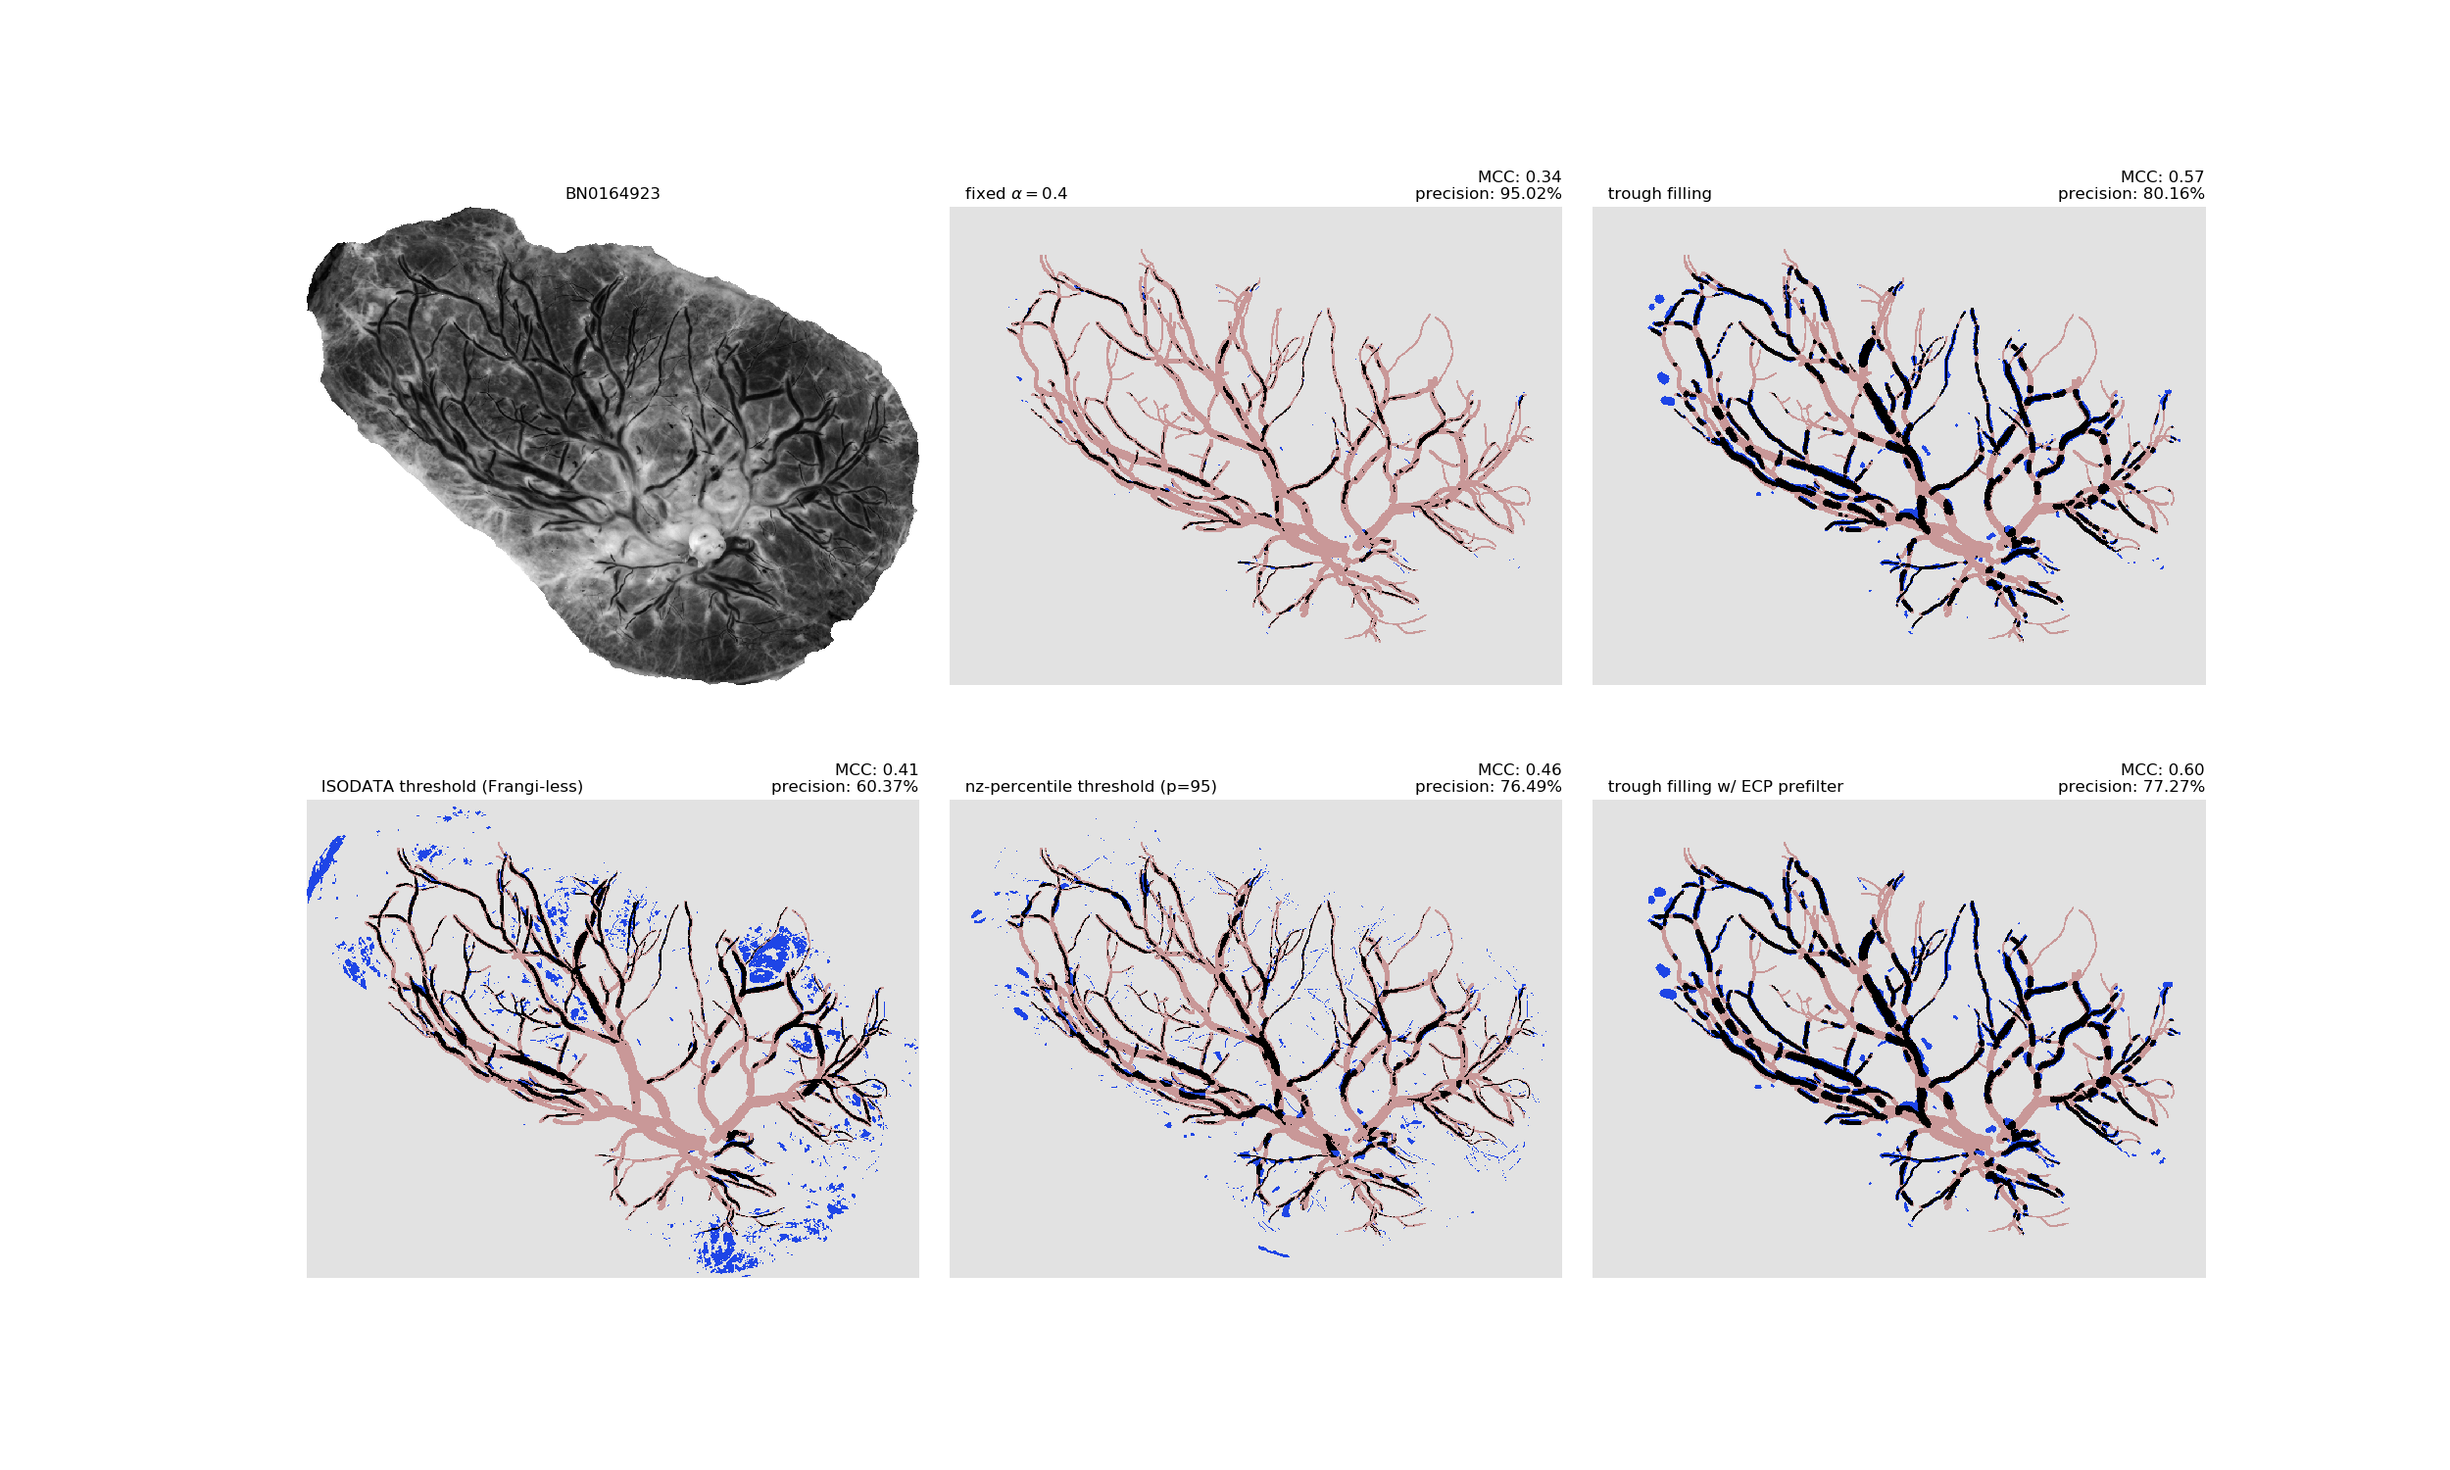
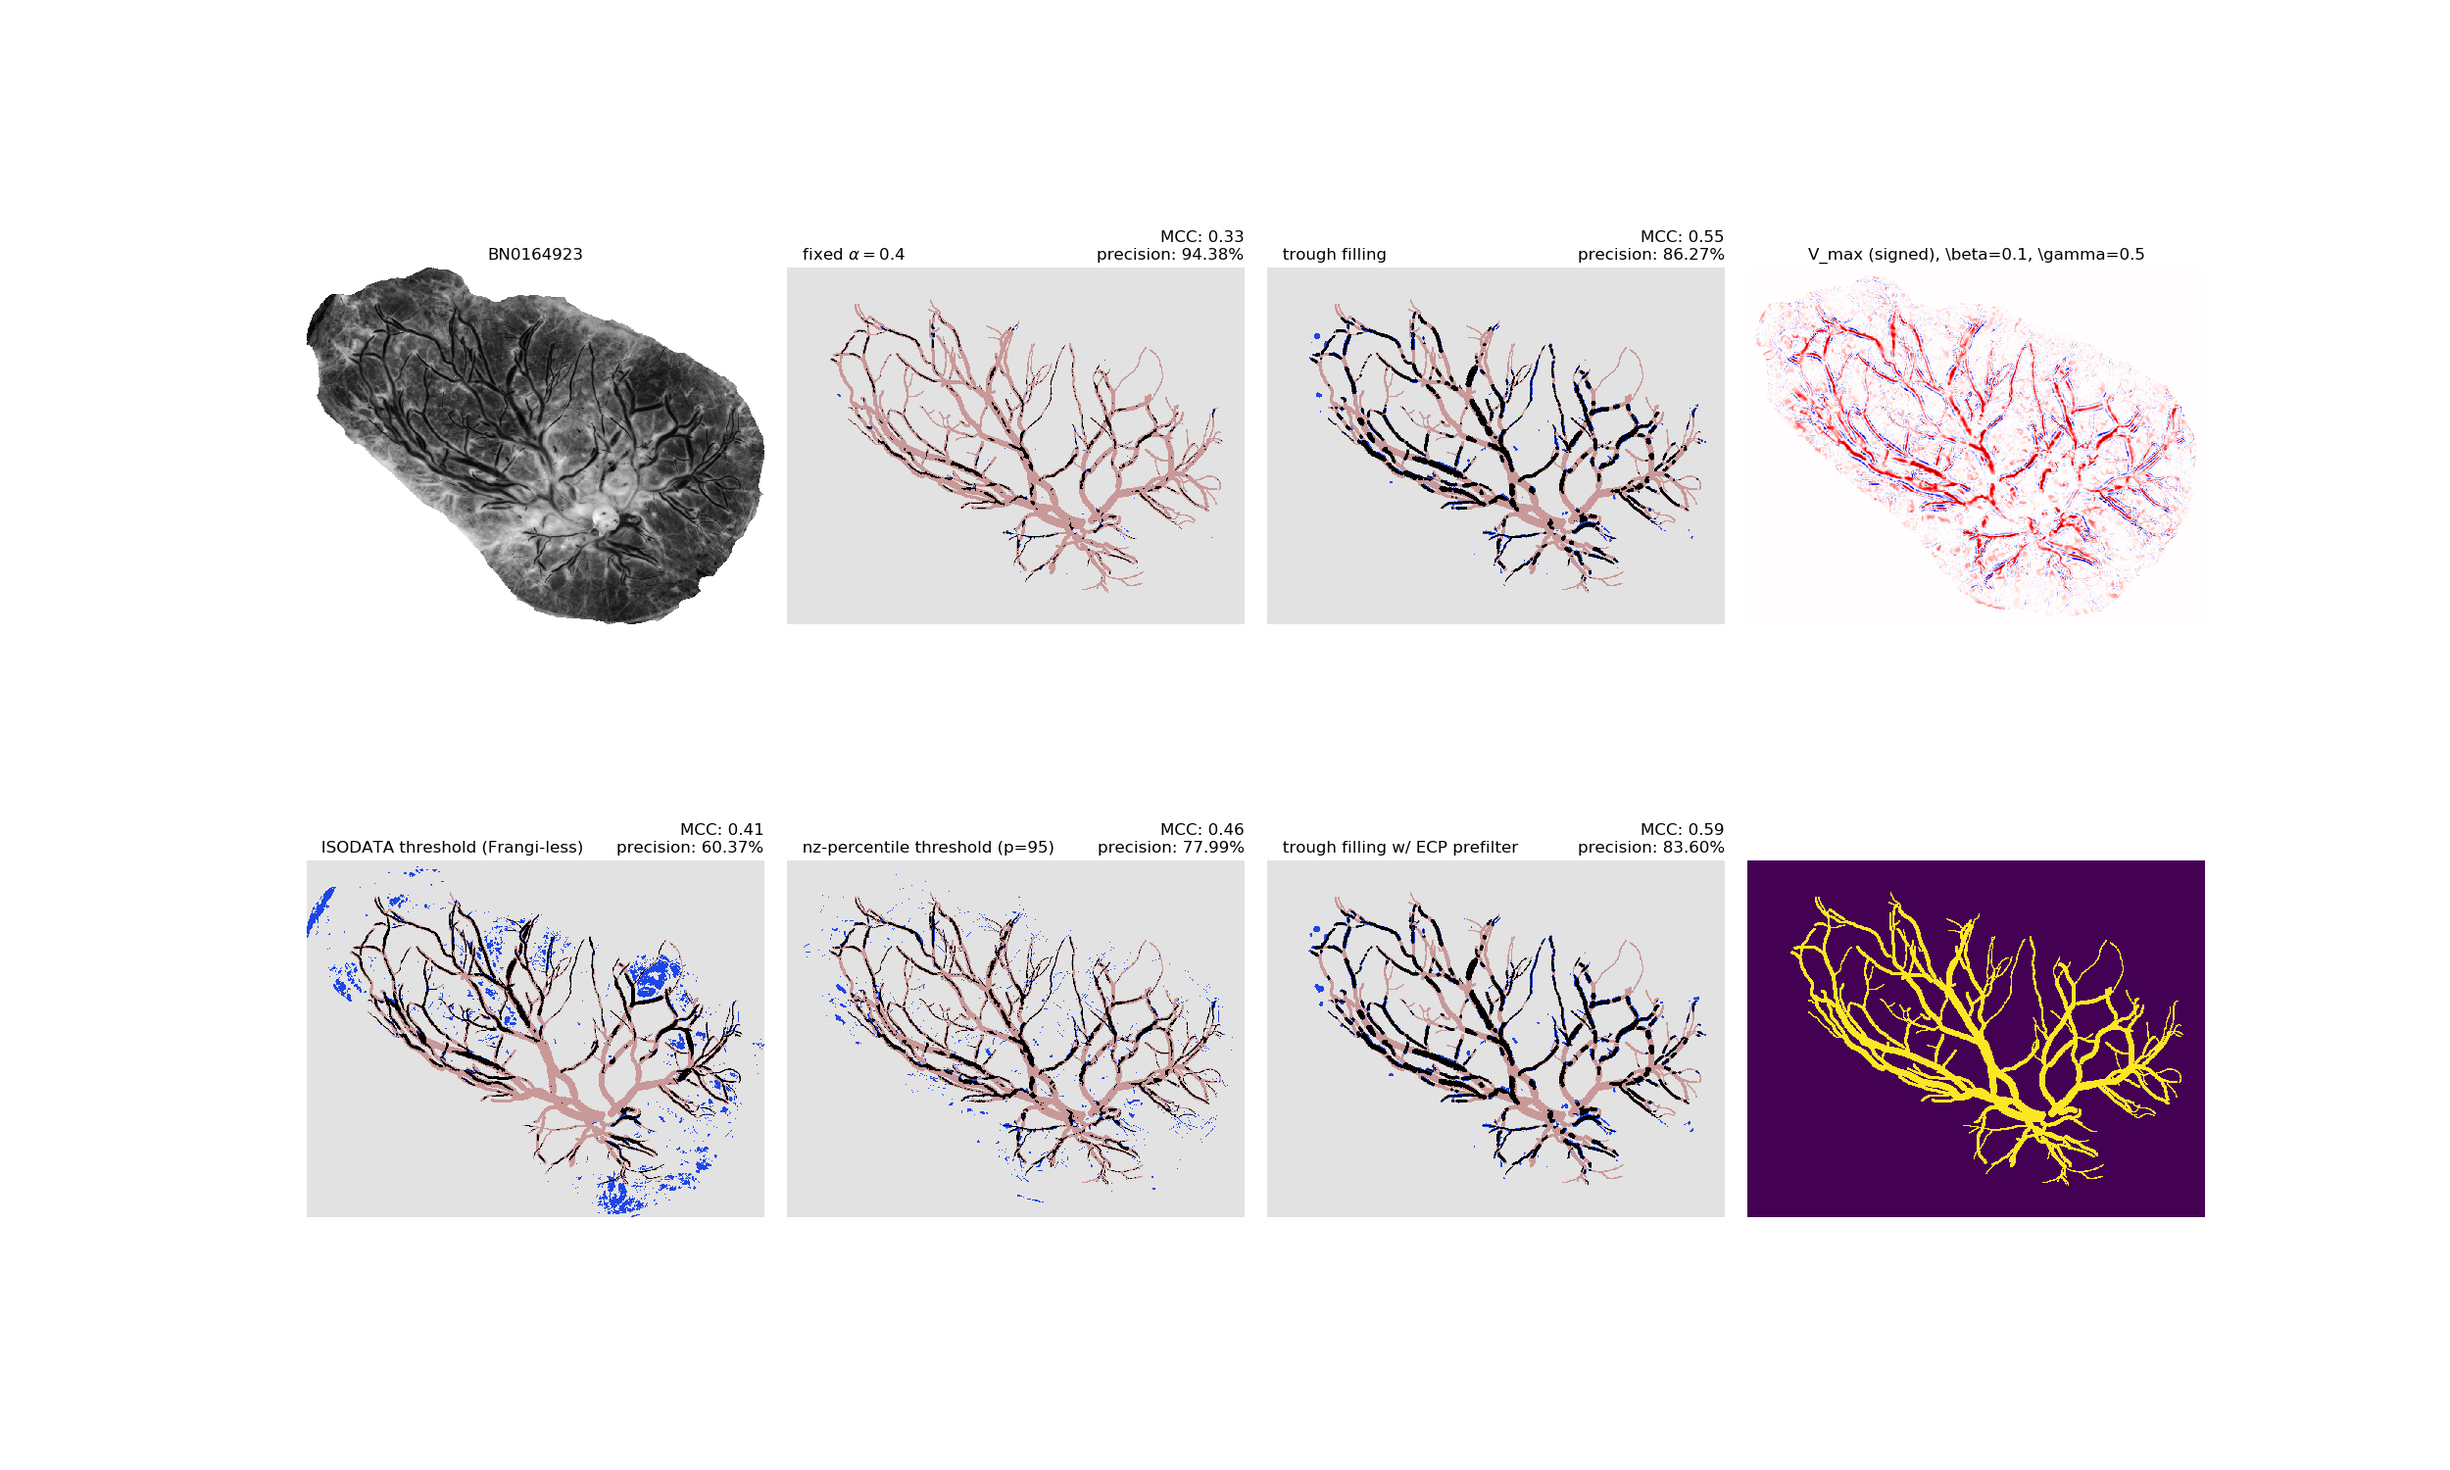
include frangi outputs

diff --git a/compare_segmentations.py b/compare_segmentations.py
@@ -47,12 +47,13 @@ OUTPUT_DIR = 'output/190130-margin_add_demo'
 if not os.path.exists(OUTPUT_DIR):
     os.makedirs(OUTPUT_DIR)
 
-beta =0.15
-gamma = .5
+beta =0.10
+gamma = 0.5
 N_scales = 20
 THRESHOLD = .4
+MARGIN_THRESHOLD = 0.01
 
-scales = np.logspace(-1.5, 3.5, base=2, num=N_scales)
+scales = np.logspace(-1.5, 3.2, base=2, num=N_scales)
 
 mccs = list()
 precs = list()
@@ -83,12 +84,15 @@ for filename in placentas:
                                     for sigma in scales])
 
     # this is Vmax(+) for all except the 4 largest scales
-    f = F[:-4].max(axis=0)
+    #f = F[:-4].max(axis=0)
+    f = F.max(axis=0)
 
     # this is Vmax(-) for the first twelve scales
     nf = ((-F*(F<0))[:12]).max(axis=0)
     nf = dilate_boundary(nf, mask=img.mask, radius=20).filled(0)
 
+    # display purposes
+    fboth = f - nf
     # this is for a
     spine = dilate_boundary(f, mask=img.mask, radius=20).filled(0)
     spine = rescale_intensity(spine, in_range=(0,1), out_range='uint8')
@@ -97,11 +101,12 @@ for filename in placentas:
 
 
     # trough filling with ECP prefilter
-    approx, radii = dilate_to_rim(bspine, nf > .05, thin_spine=False,
-                                  return_radii=True)
+    approx, radii = dilate_to_rim(bspine, nf > MARGIN_THRESHOLD,
+                                  thin_spine=False, return_radii=True)
 
-    approx2, radii2 = dilate_to_rim(spine > (THRESHOLD*255), nf > .05,
-                                    thin_spine=False, return_radii=True)
+    approx2, radii2 = dilate_to_rim(spine > (THRESHOLD*255),
+                                    nf > MARGIN_THRESHOLD, thin_spine=False,
+                                    return_radii=True)
 
     # fixed threshold
     approx_FA = (spine > (THRESHOLD*255))
@@ -145,7 +150,7 @@ for filename in placentas:
                           return_counts=True)
     p_PF = precision_score(counts_PF)
 
-    fig, ax = plt.subplots(nrows=2, ncols=3, figsize=(25,15))
+    fig, ax = plt.subplots(nrows=2, ncols=4, figsize=(25,15))
 
     ax[0,0].imshow(img[crop], cmap=plt.cm.gray)
     ax[0,0].set_title(basename)
@@ -180,6 +185,10 @@ for filename in placentas:
     ax[1,2].set_title(f'MCC: {m:.2f}\n'
                         f'precision: {p:.2%}', loc='right')
 
+    ax[0,3].imshow(fboth[crop], vmin=-1.0, vmax=1.0, cmap='seismic')
+    ax[0,3].set_title(rf'V_max (signed), \beta={beta}, \gamma={gamma}')
+
+    ax[1,3].imshow(trace[crop])
     #fig.subplots_adjust(right=0.9, wspace=0.05, hspace=0.1)
     #cbar_ax = fig.add_axes([0.9, 0.15, 0.05, 0.7])
     #fig.colorbar(im, cax=cbar_ax, shrink=0.5)
